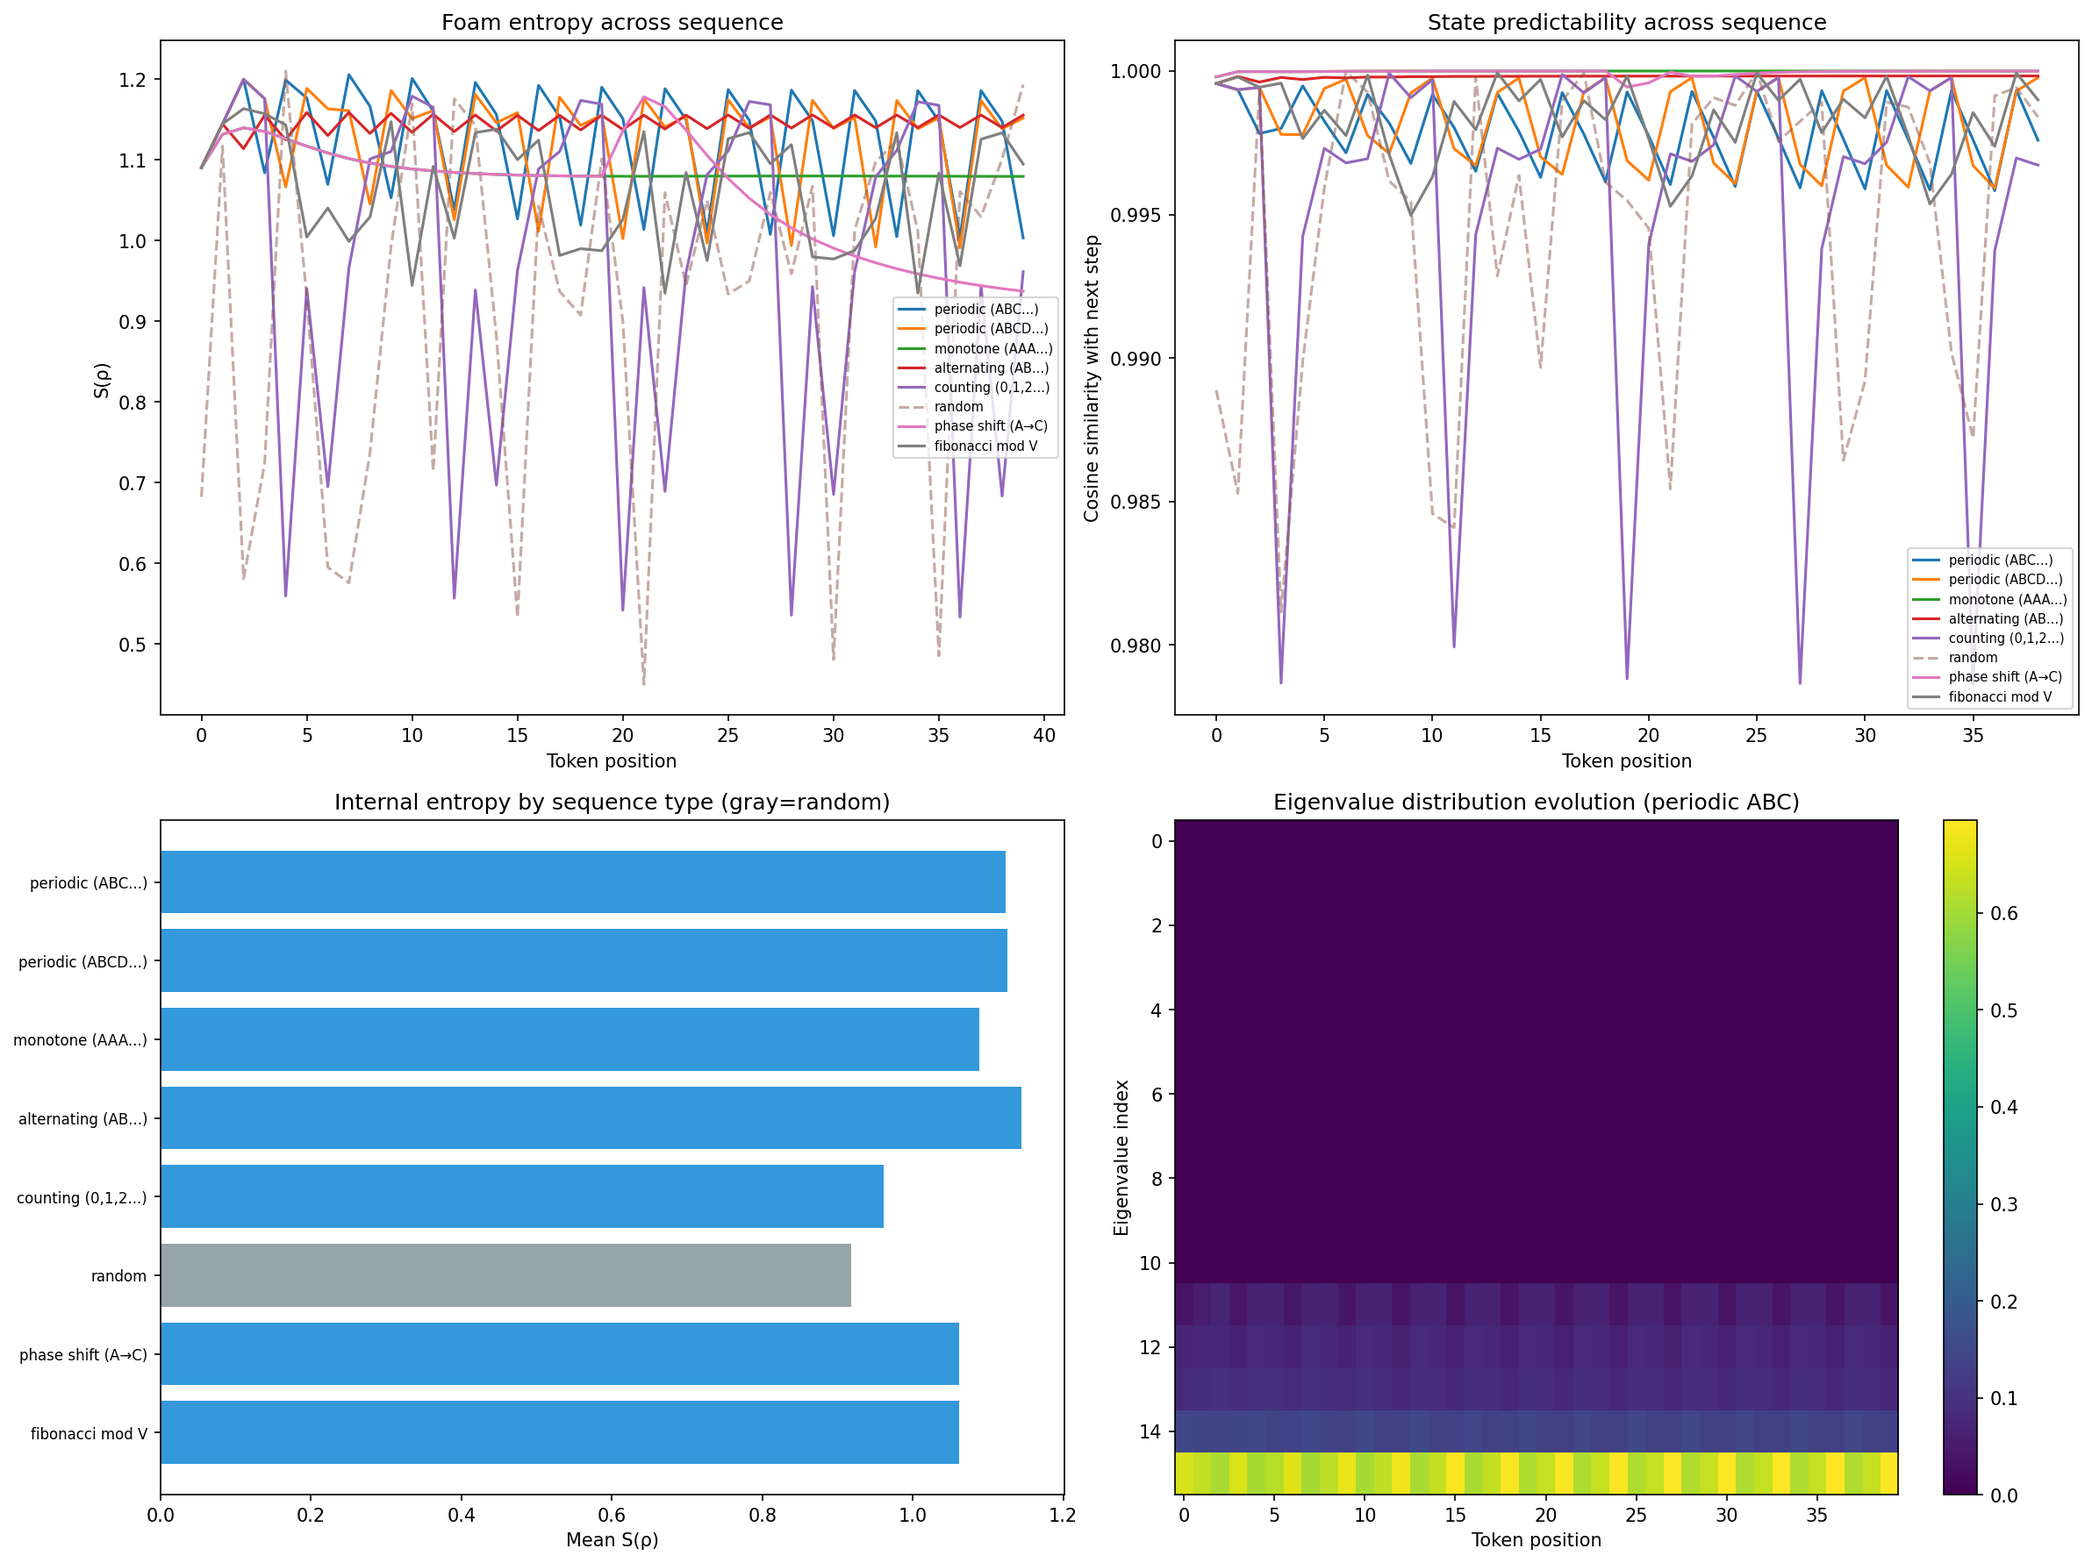
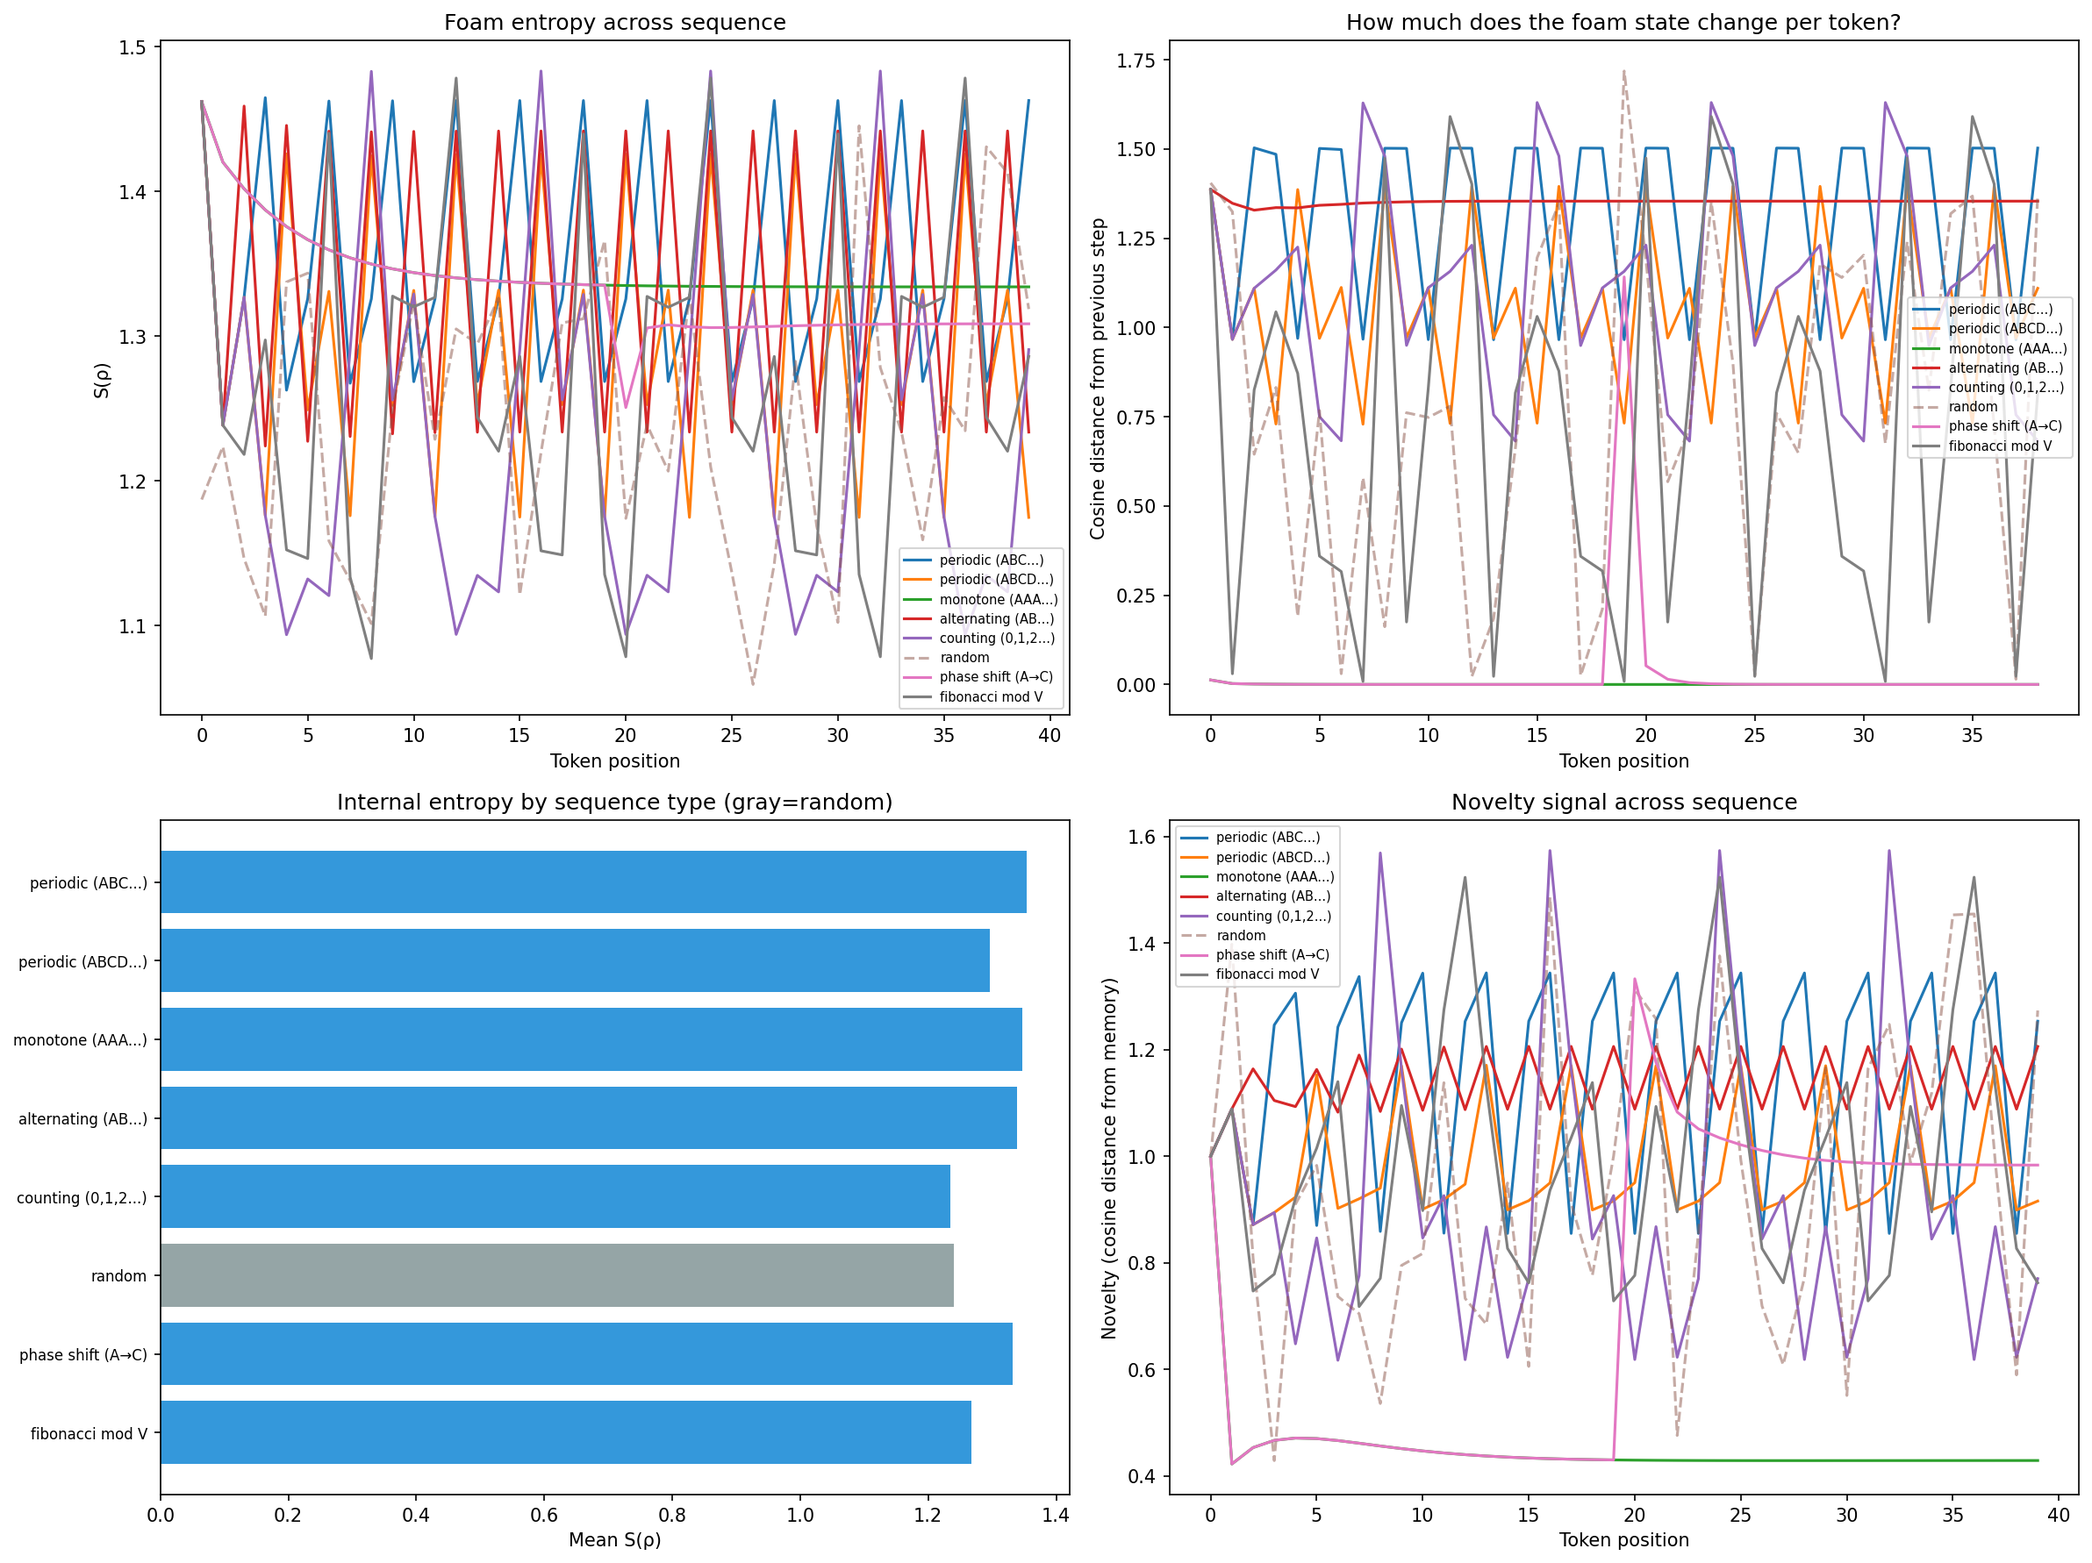
plateau dynamics: foam equilibrates through tension, not diffusion
replaces pure-diffusion equilibration with Plateau-law force dynamics:
bubbles repel when too similar, attract when too different, finding stable
configurations at learnable angular relationships. structural surface
tension modulates interaction strength.

also: novelty-modulated memory in sequence foam (novel input → lower
decay → more responsive), and proper metrics (JSD + full state cosine
distance instead of eigenvalue cosine similarity, which was structurally
near 1.0 for any non-negative distribution).

the foam isn't too smooth — it was being measured wrong. state distance
shows rich input-appropriate dynamics: stable for monotone input (0.0005),
oscillating for alternating (1.35), rhythmic for periodic (1.32), moderate
for random (0.79). F ≈ 0 still holds (0.019).

diff --git a/foam_sequence.py b/foam_sequence.py
@@ -42,9 +42,11 @@ class SequenceFoam(nn.Module):
         # The foam
         self.foam = Foam(n_bubbles, d, n_equilibrium_steps)
 
-        # State: running average of foam measurements (memory)
-        # This gives the foam history — without it, each token is independent
-        self.memory_decay = nn.Parameter(torch.tensor(0.8))
+        # Memory dynamics: novelty-modulated decay
+        # Base decay rate (sigmoid applied at runtime)
+        self.memory_decay_base = nn.Parameter(torch.tensor(0.8))
+        # How strongly novelty reduces decay (more novelty → more responsive)
+        self.novelty_sensitivity = nn.Parameter(torch.tensor(1.0))
 
     def process_sequence(self, tokens: torch.Tensor):
         """
@@ -64,14 +66,27 @@ class SequenceFoam(nn.Module):
             # Embed token
             x = self.embed(tokens[t:t+1])  # [1, d]
 
-            # Combine with memory: input = embed + decayed memory mean
-            decay = torch.sigmoid(self.memory_decay)
-            x_with_memory = x + decay * memory.mean(dim=0, keepdim=True)
+            # Novelty signal: how different is this input from the memory?
+            memory_mean = memory.mean(dim=0, keepdim=True)  # [1, d]
+            mem_norm = memory_mean.norm() + 1e-10
+            x_norm = x.norm() + 1e-10
+            if mem_norm > 1e-8:
+                novelty = 1 - (x * memory_mean).sum() / (x_norm * mem_norm)
+            else:
+                novelty = torch.tensor(1.0, device=device)  # first token is maximally novel
+            # novelty ∈ [0, 2] (cosine distance), typically [0, 1]
+
+            # Novelty-modulated decay: high novelty → low decay → more responsive
+            sensitivity = self.novelty_sensitivity.abs()
+            decay = torch.sigmoid(self.memory_decay_base - sensitivity * novelty)
+
+            # Combine with memory
+            x_with_memory = x + decay * memory_mean
 
             # Process through foam
             result = self.foam.forward(x_with_memory)
 
-            # Update memory with this step's equilibrium measurements
+            # Update memory with novelty-modulated decay
             eq = result["equilibrium"][0]  # [N, d]
             memory = decay * memory + (1 - decay) * eq
 
@@ -86,6 +101,8 @@ class SequenceFoam(nn.Module):
                 "output_dist": output_dist.detach(),
                 "rho": rho.detach(),
                 "S_rho": -(output_dist * output_dist.log().clamp(min=-100)).sum().item(),
+                "novelty": novelty.item(),
+                "decay": decay.item(),
                 "equilibrium": eq.detach(),
                 "surface_tension": result["surface_tension"].detach(),
             })
@@ -139,24 +156,40 @@ def analyze_predictiveness(step_results, tokens, vocab_size):
     """
     Does the foam's state at step t carry information about token t+1?
 
-    For each step, we look at the eigenvalue distribution and check if it
-    correlates with the next token's identity. If the foam is naturally
-    predictive, the distribution at step t should be more similar to the
-    distribution at step t+1 for structured sequences than for random ones.
+    Metrics:
+    - JSD: Jensen-Shannon divergence between consecutive eigenvalue distributions.
+      (Proper distribution distance, unlike cosine similarity which is structurally
+      near 1.0 for non-negative vectors that sum to 1.)
+    - State distance: cosine distance between full equilibrium states [N, d].
+      This is the richer signal — the eigenvalue distribution compresses away
+      the bubble structure.
     """
     dists = torch.stack([r["output_dist"] for r in step_results])  # [T, d]
+    equil = torch.stack([r["equilibrium"] for r in step_results])  # [T, N, d]
 
-    # Consecutive cosine similarity of eigenvalue distributions
     if len(dists) < 2:
-        return {"mean_similarity": 0, "similarity_trace": []}
+        return {"mean_jsd": 0, "jsd_trace": [], "mean_state_dist": 0, "state_dist_trace": []}
 
-    d1 = dists[:-1]  # [T-1, d]
-    d2 = dists[1:]   # [T-1, d]
-    cos_sim = (d1 * d2).sum(dim=-1) / (d1.norm(dim=-1) * d2.norm(dim=-1) + 1e-10)
+    # Jensen-Shannon divergence between consecutive eigenvalue distributions
+    p = dists[:-1]  # [T-1, d]
+    q = dists[1:]   # [T-1, d]
+    m = 0.5 * (p + q)
+    # KL(p||m) and KL(q||m), handling zeros
+    kl_pm = (p * (p / (m + 1e-12) + 1e-12).log()).sum(dim=-1)
+    kl_qm = (q * (q / (m + 1e-12) + 1e-12).log()).sum(dim=-1)
+    jsd = 0.5 * (kl_pm + kl_qm)
+
+    # Full state cosine distance (flatten [N, d] → [N*d])
+    e1 = equil[:-1].flatten(start_dim=1)  # [T-1, N*d]
+    e2 = equil[1:].flatten(start_dim=1)   # [T-1, N*d]
+    cos_sim = (e1 * e2).sum(dim=-1) / (e1.norm(dim=-1) * e2.norm(dim=-1) + 1e-10)
+    state_dist = 1 - cos_sim
 
     return {
-        "mean_similarity": cos_sim.mean().item(),
-        "similarity_trace": cos_sim.tolist(),
+        "mean_jsd": jsd.mean().item(),
+        "jsd_trace": jsd.tolist(),
+        "mean_state_dist": state_dist.mean().item(),
+        "state_dist_trace": state_dist.tolist(),
     }
 
 
@@ -203,8 +236,8 @@ if __name__ == "__main__":
 
     all_analyses = {}
 
-    print(f"\n{'Sequence':<25} {'Mean S(ρ)':>10} {'Std S(ρ)':>10} {'ConsecSim':>10}")
-    print("-" * 58)
+    print(f"\n{'Sequence':<25} {'Mean S(ρ)':>10} {'Std S(ρ)':>10} {'JSD':>8} {'StateDist':>10} {'Novelty':>8}")
+    print("-" * 74)
 
     for name, tokens in sequences.items():
         with torch.no_grad():
@@ -212,14 +245,17 @@ if __name__ == "__main__":
 
         analysis = analyze_predictiveness(results, tokens, vocab_size)
         s_values = [r["S_rho"] for r in results]
+        novelty_values = [r["novelty"] for r in results]
 
         print(f"  {name:<23} {np.mean(s_values):>10.4f} {np.std(s_values):>10.4f} "
-              f"{analysis['mean_similarity']:>10.4f}")
+              f"{analysis['mean_jsd']:>8.4f} {analysis['mean_state_dist']:>10.4f} "
+              f"{np.mean(novelty_values):>8.4f}")
 
         all_analyses[name] = {
             "results": results,
             "analysis": analysis,
             "s_values": s_values,
+            "novelty_values": novelty_values,
         }
 
     # Key test: does the foam differentiate structured from random?
@@ -242,12 +278,14 @@ if __name__ == "__main__":
     else:
         print(f"  ✗ No differentiation — the foam responds the same to both")
 
-    # Consecutive similarity: does the foam "expect" what comes next?
-    print(f"\n  Consecutive similarity (does the foam state predict the next step?):")
+    # State dynamics: how much does the foam change between tokens?
+    print(f"\n  State dynamics (JSD of eigenvalues, cosine distance of full state):")
     for name, data in all_analyses.items():
-        sim = data["analysis"]["mean_similarity"]
-        print(f"    {name:<23} {sim:.4f}")
-    print(f"  (higher = more predictable state evolution)")
+        jsd = data["analysis"]["mean_jsd"]
+        sd = data["analysis"]["mean_state_dist"]
+        print(f"    {name:<23} JSD={jsd:.4f}  StateDist={sd:.4f}")
+    print(f"  (higher = more dynamic response to input)")
+    print(f"  (monotone should be ~0, periodic should show rhythmic variation)")
 
     # Plot
     fig, axes = plt.subplots(2, 2, figsize=(16, 12))
@@ -263,17 +301,17 @@ if __name__ == "__main__":
     ax.set_title("Foam entropy across sequence")
     ax.legend(fontsize=7)
 
-    # 2: Consecutive similarity traces
+    # 2: State distance traces (full equilibrium state, not just eigenvalues)
     ax = axes[0, 1]
     for name, data in all_analyses.items():
-        sim_trace = data["analysis"]["similarity_trace"]
-        if sim_trace:
+        trace = data["analysis"]["state_dist_trace"]
+        if trace:
             style = "--" if "random" in name else "-"
             alpha = 0.5 if "random" in name else 1.0
-            ax.plot(sim_trace, style, label=name, alpha=alpha, linewidth=1.5)
+            ax.plot(trace, style, label=name, alpha=alpha, linewidth=1.5)
     ax.set_xlabel("Token position")
-    ax.set_ylabel("Cosine similarity with next step")
-    ax.set_title("State predictability across sequence")
+    ax.set_ylabel("Cosine distance from previous step")
+    ax.set_title("How much does the foam state change per token?")
     ax.legend(fontsize=7)
 
     # 3: Bar chart of mean S by sequence type
@@ -288,16 +326,16 @@ if __name__ == "__main__":
     ax.set_title("Internal entropy by sequence type (gray=random)")
     ax.invert_yaxis()
 
-    # 4: Eigenvalue distribution evolution for one structured sequence
+    # 4: Novelty traces — does the foam detect structure vs randomness?
     ax = axes[1, 1]
-    # Pick periodic sequence
-    periodic_results = all_analyses["periodic (ABC...)"]["results"]
-    dists = torch.stack([r["output_dist"] for r in periodic_results]).numpy()
-    im = ax.imshow(dists.T, aspect="auto", cmap="viridis")
+    for name, data in all_analyses.items():
+        style = "--" if "random" in name else "-"
+        alpha = 0.5 if "random" in name else 1.0
+        ax.plot(data["novelty_values"], style, label=name, alpha=alpha, linewidth=1.5)
     ax.set_xlabel("Token position")
-    ax.set_ylabel("Eigenvalue index")
-    ax.set_title("Eigenvalue distribution evolution (periodic ABC)")
-    plt.colorbar(im, ax=ax)
+    ax.set_ylabel("Novelty (cosine distance from memory)")
+    ax.set_title("Novelty signal across sequence")
+    ax.legend(fontsize=7)
 
     plt.tight_layout()
     plt.savefig("foam_sequence.png", dpi=150, bbox_inches="tight")

diff --git a/foam.py b/foam.py
@@ -89,6 +89,14 @@ class Foam(nn.Module):
         # Learnable temperature for equilibration
         self.temperature = nn.Parameter(torch.tensor(1.0))
 
+        # Plateau dynamics parameters
+        # Target cosine similarity between bubble measurements at equilibrium.
+        # cos(120°) = -0.5 is the classic Plateau angle for 3-way junctions.
+        # For N bubbles this is learnable — the foam finds its own geometry.
+        self.target_similarity = nn.Parameter(torch.tensor(-0.5))
+        # Step size for force integration (clamped for stability)
+        self.equilibrium_step_size = nn.Parameter(torch.tensor(0.1))
+
     def surface_tension(self) -> torch.Tensor:
         """
         Pairwise surface tension between all bubbles.
@@ -104,35 +112,55 @@ class Foam(nn.Module):
 
     def equilibrate(self, measurements: torch.Tensor) -> torch.Tensor:
         """
-        Iteratively equilibrate the foam.
+        Equilibrate the foam via Plateau force dynamics.
 
         measurements: [batch, N, d] — each bubble's initial measurement
         returns: [batch, N, d] — equilibrium measurements
 
-        At each step, each bubble's measurement moves toward the weighted
-        mean of all measurements, where weights are exp(-tension/temperature).
-        This is a soft version of "bubbles with low surface tension share more."
+        Instead of diffusion toward the mean (which can only smooth), bubbles
+        interact through forces that have both attraction AND repulsion:
+        - Too similar → repel (maintain distinctness)
+        - Too different → attract (maintain coherence)
+        - Equilibrium at target_similarity (the foam's learned Plateau angle)
+
+        The structural surface tension (from bases) modulates interaction
+        strength: bubbles with closer bases transmit forces more strongly,
+        like thinner films between similar regions.
         """
+        N = self.n_bubbles
+        device = measurements.device
+        mask = 1 - torch.eye(N, device=device)  # [N, N]
+
+        # Structural interaction strength (from bases, not measurements)
         tension = self.surface_tension()  # [N, N]
-        # Interaction weights: inverse tension, softmaxed
-        weights = torch.softmax(-tension / self.temperature.abs().clamp(min=0.01), dim=-1)
-        # weights[i, j] = how much bubble i listens to bubble j
+        interaction = torch.softmax(
+            -tension / self.temperature.abs().clamp(min=0.01), dim=-1
+        )  # [N, N] — closer bases interact more strongly
+
+        target = self.target_similarity
+        step = self.equilibrium_step_size.abs().clamp(min=0.001, max=0.5)
 
         state = measurements  # [batch, N, d]
 
-        for step in range(self.n_steps):
-            # Each bubble's state moves toward weighted mean of all states
-            # weighted_mean[i] = Σ_j weights[i,j] * state[j]
-            new_state = torch.einsum("ij, bnj -> bni",
-                                     weights, state.transpose(1, 2)).transpose(1, 2)
-            # Wait — that's not right dimensionally. Let me fix.
-            # state: [batch, N, d], weights: [N, N]
-            # For each batch, bubble i's new state = Σ_j w[i,j] * state[batch, j, :]
-            new_state = torch.einsum("ij, bjd -> bid", weights, state)
+        for _ in range(self.n_steps):
+            # Pairwise cosine similarity of current measurements
+            state_n = state / (state.norm(dim=-1, keepdim=True) + 1e-10)
+            cos_sim = torch.bmm(state_n, state_n.transpose(1, 2))  # [batch, N, N]
 
-            # Blend: partial step toward equilibrium (don't jump all the way)
-            alpha = 0.5
-            state = (1 - alpha) * state + alpha * new_state
+            # Plateau force magnitude: positive → repel, negative → attract
+            # Modulated by structural interaction strength
+            force_mag = (cos_sim - target) * (mask * interaction).unsqueeze(0)
+            # [batch, N, N]
+
+            # Force direction: pairwise difference vectors
+            diff = state.unsqueeze(2) - state.unsqueeze(1)  # [batch, N, N, d]
+            diff_n = diff / (diff.norm(dim=-1, keepdim=True) + 1e-10)
+
+            # Net force on each bubble: sum over all neighbors
+            forces = (force_mag.unsqueeze(-1) * diff_n).sum(dim=2)  # [batch, N, d]
+
+            # Integrate
+            state = state + step * forces
 
         return state
 
